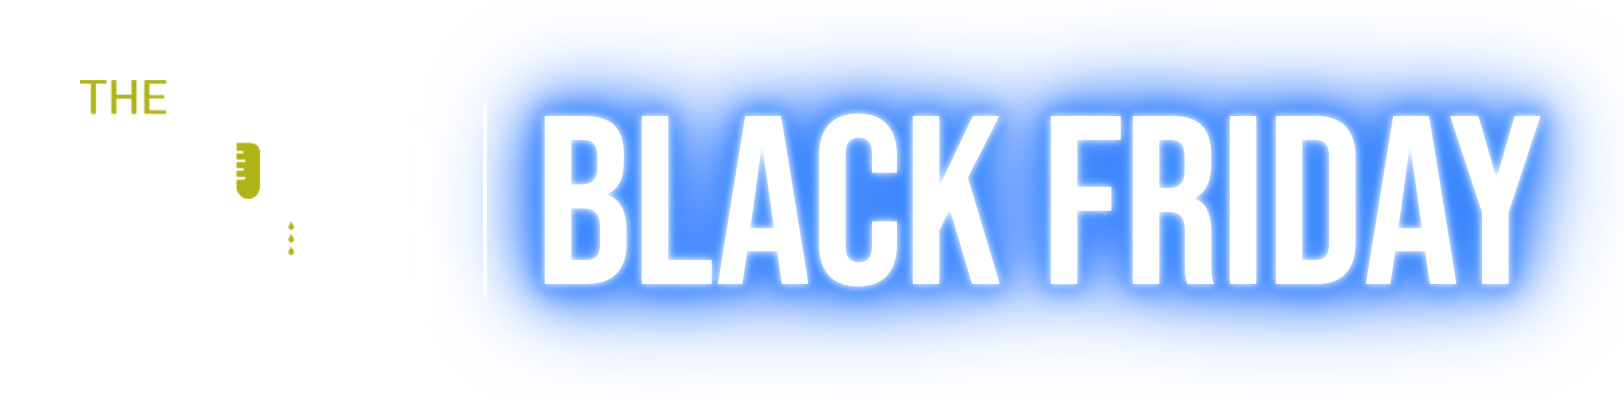
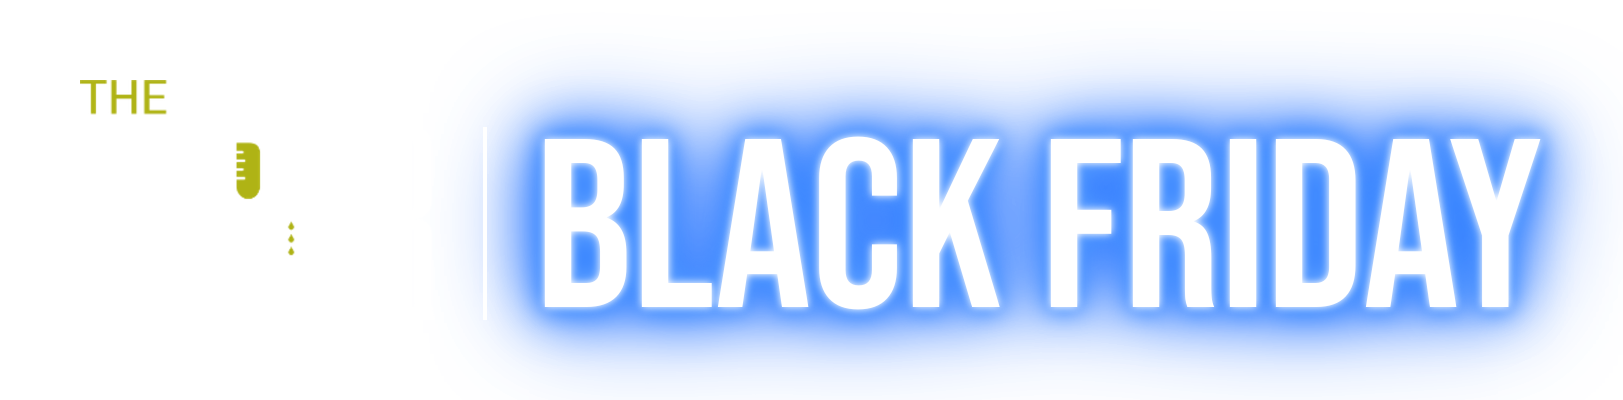
BF2026 keller: lockup on all pages, tighter BLACK FRIDAY, no nav cart, always-on cart footer, no preview card

Changed region(s): [[0.3081, 0.15, 0.9858, 0.9], [0.647, 0.45, 0.7702, 0.63]]

diff --git a/keller/black-friday-2026/contact/index.html b/keller/black-friday-2026/contact/index.html
@@ -25,7 +25,7 @@ a{color:inherit;text-decoration:none}
 .lockup{display:flex;align-items:center;gap:12px}
 .bar .lg{height:30px;width:auto}
 .lockup i{width:1px;height:26px;background:rgba(255,255,255,.22)}
-.lockup .bfw{font-family:'Bebas Neue','Arial Narrow',Arial,sans-serif;font-size:30px;line-height:1;letter-spacing:0;color:#fff;white-space:nowrap;padding-top:2px;text-shadow:0 0 4px rgba(255,255,255,.55),0 0 12px rgba(77,148,255,.95),0 0 26px rgba(41,121,255,.8),0 0 48px rgba(31,107,255,.55)}
+.lockup .bfw{font-family:'Bebas Neue','Arial Narrow',Arial,sans-serif;font-size:30px;line-height:1;letter-spacing:0;color:#fff;white-space:nowrap;position:relative;top:.11em;text-shadow:0 0 4px rgba(255,255,255,.55),0 0 12px rgba(77,148,255,.95),0 0 26px rgba(41,121,255,.8),0 0 48px rgba(31,107,255,.55)}
 .bar .r{display:flex;gap:8px}
 .chip{display:inline-flex;align-items:center;gap:7px;font-size:13px;font-weight:600;color:#fff;background:rgba(255,255,255,.1);border:1px solid rgba(255,255,255,.14);border-radius:999px;padding:7px 14px;white-space:nowrap;transition:background .3s}
 .chip:hover{background:rgba(255,255,255,.2)}

diff --git a/keller/black-friday-2026/thank-you/index.html b/keller/black-friday-2026/thank-you/index.html
@@ -25,7 +25,7 @@ a{color:inherit;text-decoration:none}
 .lockup{display:flex;align-items:center;gap:12px}
 .bar .lg{height:30px;width:auto}
 .lockup i{width:1px;height:26px;background:rgba(255,255,255,.22)}
-.lockup .bfw{font-family:'Bebas Neue','Arial Narrow',Arial,sans-serif;font-size:30px;line-height:1;letter-spacing:0;color:#fff;white-space:nowrap;padding-top:2px;text-shadow:0 0 4px rgba(255,255,255,.55),0 0 12px rgba(77,148,255,.95),0 0 26px rgba(41,121,255,.8),0 0 48px rgba(31,107,255,.55)}
+.lockup .bfw{font-family:'Bebas Neue','Arial Narrow',Arial,sans-serif;font-size:30px;line-height:1;letter-spacing:0;color:#fff;white-space:nowrap;position:relative;top:.11em;text-shadow:0 0 4px rgba(255,255,255,.55),0 0 12px rgba(77,148,255,.95),0 0 26px rgba(41,121,255,.8),0 0 48px rgba(31,107,255,.55)}
 .bar .r{display:flex;gap:8px}
 .chip{display:inline-flex;align-items:center;gap:7px;font-size:13px;font-weight:600;color:#fff;background:rgba(255,255,255,.1);border:1px solid rgba(255,255,255,.14);border-radius:999px;padding:7px 14px;white-space:nowrap;transition:background .3s}
 .chip:hover{background:rgba(255,255,255,.2)}

diff --git a/keller/black-friday-2026/index.html b/keller/black-friday-2026/index.html
@@ -43,7 +43,7 @@ a{color:inherit;text-decoration:none}
 .lockup{display:flex;align-items:center;gap:12px;flex:none}
 .bar .lg{height:30px;width:auto}
 .lockup i{width:1px;height:26px;background:rgba(255,255,255,.22)}
-.lockup .bfw{font-family:'Bebas Neue','Arial Narrow',Arial,sans-serif;font-size:30px;line-height:1;letter-spacing:0;color:#fff;white-space:nowrap;padding-top:2px;
+.lockup .bfw{font-family:'Bebas Neue','Arial Narrow',Arial,sans-serif;font-size:30px;line-height:1;letter-spacing:0;color:#fff;white-space:nowrap;position:relative;top:.11em;
  text-shadow:0 0 4px rgba(255,255,255,.55),0 0 12px rgba(77,148,255,.95),0 0 26px rgba(41,121,255,.8),0 0 48px rgba(31,107,255,.55)}
 .seg{margin:0 0 0 auto;display:flex;background:rgba(255,255,255,.08);border-radius:999px;padding:4px}
 .seg a{font-size:13px;font-weight:600;padding:8px 16px;border-radius:999px;color:rgba(255,255,255,.75);white-space:nowrap;transition:background .3s,color .3s}

diff --git a/assets/bf2026/skin.css b/assets/bf2026/skin.css
@@ -166,7 +166,7 @@ body{font-family:'Poppins',Arial,sans-serif !important;-webkit-font-smoothing:an
 img[src*="69122f0eeb4248372d8a6ce2"],img[src*="6b23d118-466c-46ed-90c3-cbc8770cf343"],
 .c-nav-menu-v2 .image-container img[src*="69122f0eeb4248372d8a6ce2"]{
  max-width:100% !important;height:56px !important;max-height:none !important;object-fit:none !important;object-position:-99999px 0 !important;
- background:url("https://betterbranding.github.io/dripbar-pages/assets/bf2026/bf-lockup.png?v=1") left center/contain no-repeat !important}
+ background:url("https://betterbranding.github.io/dripbar-pages/assets/bf2026/bf-lockup.png?v=2") left center/contain no-repeat !important}
 img[src*="6b23d118-466c-46ed-90c3-cbc8770cf343"]{height:72px !important;background-position:center !important;margin:0 auto !important}
 @media(max-width:480px){
  .c-nav-menu-v2 .image-container img[src*="69122f0eeb4248372d8a6ce2"]{height:46px !important}
